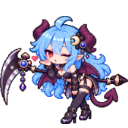
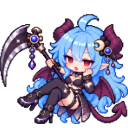
fix: correct exclusive 049 pose order

diff --git a/tests/Feature/CharacterIconSetTest.php b/tests/Feature/CharacterIconSetTest.php
@@ -161,6 +161,20 @@ class CharacterIconSetTest extends TestCase
         }
     }
 
+    public function test_exclusive_049_uses_the_approved_victory_and_battle_pose_order(): void
+    {
+        $basePath = public_path('images/chara/exclusive/exclusive_049');
+
+        $this->assertSame(
[1 lines of base64/hex data omitted]
+            hash_file('sha256', "{$basePath}/02_victory.webp")
+        );
+        $this->assertSame(
[1 lines of base64/hex data omitted]
+            hash_file('sha256', "{$basePath}/03_battle.webp")
+        );
+    }
+
     public function test_owner_can_cycle_arena_showcase_and_every_ranking_view_uses_saved_pose(): void
     {
         $character = $this->createCharacter('展示ポーズ確認');

diff --git a/config/admin_update_summaries.php b/config/admin_update_summaries.php
@@ -2,6 +2,14 @@
 
 return [
     [
+        'id' => '2026-09-11-exclusive-character-icon-049-pose-order',
+        'date' => '2026-09-11',
+        'category' => 'fixed',
+        'title' => 'ふーか専用アイコンのポーズ順を修正',
+        'detail' => 'ふーかさん専用キャラアイコンの勝利ポーズと戦闘ポーズを、指定された順番へ修正しました。',
+        'internal' => true,
+    ],
+    [
         'id' => '2026-09-10-restore-admin-user-investigation-play-as',
         'date' => '2026-09-10',
         'category' => 'fixed',
